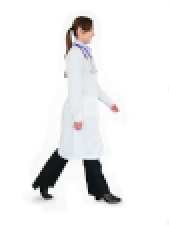
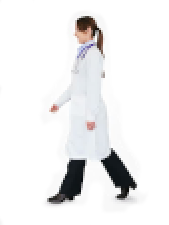
some transitions and styling

Changed region(s): [[0.1775, 0.4044, 0.8284, 0.9333], [0.355, 0.0622, 0.6213, 0.3733]]

diff --git a/styles/style.css b/styles/style.css
@@ -73,7 +73,7 @@ div {
 
 footer{
     display: flex;
-    justify-content: center;
+    justify-content: space-evenly;git
     align-items: center;
     padding: 30px;
     margin: 30px;
@@ -119,8 +119,22 @@ a:visited {
     
 }
 #level-avatar {
-    width: 60px;
+    width: 150px;
+    position: relative;
+    left: 250px;
+    top: 170px;
+    
 }
+
+#level-avatar:hover {
+    transition-property: left;
+    transition-duration: 3s;
+    position: relative;
+    left: -14em;
+    
+
+}
+
 .scene{
     border: 2px #01FE05 dotted;
 
@@ -156,6 +170,19 @@ button {
     color: #01FE05;     
     border: 2px solid #01FE05; 
     border-radius: 8px;
+}
+
+.result-image {
+    background-size: 50%;
+    display: flex;
+    flex-direction: column;
+    flex-wrap: wrap;
+    font-size: 1em;
+    
+}
+
+.result-message {
+    margin: 20px;
 }
 
 @keyframes label {

diff --git a/results/results.js b/results/results.js
@@ -10,15 +10,17 @@ headerEl.append(ulLeftEl, ulCenterEl, ulRightEl);
 
 // const main = document.querySelector('main');
 const imageBox = document.querySelector('.image-box');
+imageBox.classList.add('result-image');
 const h2 = document.querySelector('.result-message');
 const button = document.getElementById('restart-button');
 
 
 if (user.health <= 0) {
-    imageBox.style.backgroundImage = 'url(../assets/placement.png)';
+    imageBox.style.backgroundImage = 'url(../assets/gravestone.png)';
+    imageBox.textContent = `RIP ${user.name}`;
     h2.textContent = `${user.name} contracted Covid and died.`;
 } else {
-    imageBox.style.backgroundImage = 'url(../assets/logo.jpg)';
+    imageBox.style.backgroundImage = 'url(../assets/trophy.png)';
     h2.textContent = `${user.name} Survived! Congratuations!`;
 }
 

diff --git a/render.js b/render.js
@@ -15,7 +15,7 @@ export function renderStartPage(occupationList) {
     mainSectionEl.classList.add('main-section');
     //TODO select random image
     const startImgEl = document.createElement('img');
-    startImgEl.src = 'https://covid-19archive.org/files/large/e265d1d5cdc41f348959af6faf7d92492d278190.jpg';
+    startImgEl.src = '../assets/logo.jpg';
     startImgEl.classList.add('start-image');
 
     const formEl = document.createElement('form');
